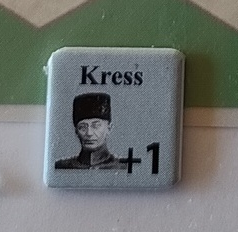
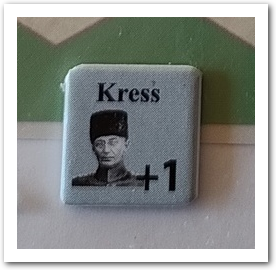
Updated

diff --git a/Games/Gaza-1917/01-AAR-Solitario.md b/Games/Gaza-1917/01-AAR-Solitario.md
@@ -105,7 +105,7 @@ Al final, sólo 2 puntos han sido obtenidos por los británicos, lo que da lugar
 
 Me ha gustado el sistema, fácil de leer, fácil de aplicar y con las hojas de ayuda que han colgado en la BGG, junto con la CRT del juego plastificada y aparte, se juega en menos de los 90 minutos que aparece. 
 
-![Ayudas](imgs/01-Ayudas.png)
+![Ayudas](imgs/01-Ayudas.jpg)
 
 Me falta experiencia en Wargames y más si cabe en este periodo, pero por lo que he podido leer ( que me falta mucho por hacer ), creo que el juego representa bien la situación de ambas facciones, con una serie de reglas de *cromo* sencillas y fáciles de aplicar y recordar.
 

diff --git a/Games/Readme.md b/Games/Readme.md
@@ -1,3 +1,9 @@
+# Utilidades
+
+convert  -resize 20% source.png dest.jpg
+
+convert input.png -bordercolor white -border 13 \( +clone -background black -shadow 80x3+2+2 \) +swap -background white -layers merge +repage output.png
+
 # Planing de Testeo
 
 ## TODO
@@ -21,10 +27,7 @@
 
 # Venta
 
-* Alea Italia + Amos del Horizonte.
-* Alea Cuestion de Honor.
 * Khe Sanh.
-* Friedrich.
 
 
 
